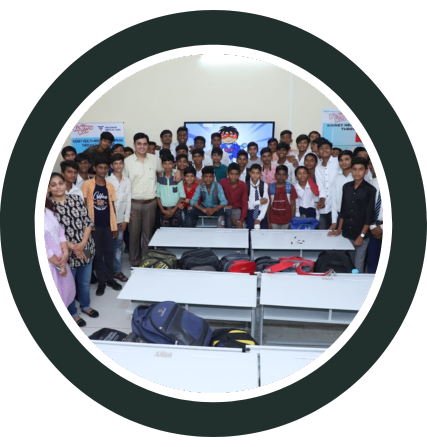
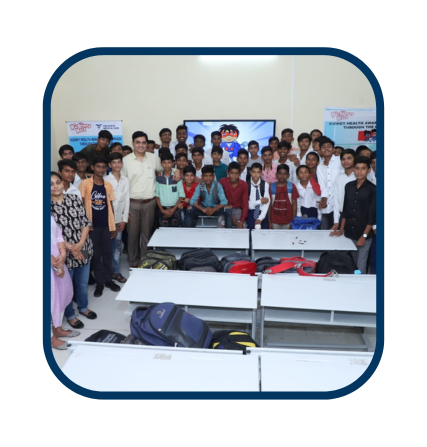
focus areas styling improved and home page section backgrounds set

diff --git a/public/assets/css/oxpins.css b/public/assets/css/oxpins.css
@@ -7240,6 +7240,7 @@ body.locked .page-wrapper {
   display: block;
   min-height: 447px;
   z-index: 2;
+  cursor: pointer;
 }
 
 .feature-three__img {
@@ -7266,6 +7267,7 @@ body.locked .page-wrapper {
   left: 90px;
   transform: rotate(-16deg);
   z-index: 2;
+  
 }
 
 .feature-three__title {

diff --git a/resources/views/demos/index.blade.php b/resources/views/demos/index.blade.php
@@ -49,7 +49,7 @@
                             <div class="col-xl-12">
                                 <div class="main-slider-two__content">
                                     <p class="main-slider-two__sub-title">Helping Today. Helping Tommorow</p>
-                                    <h2 class="main-slider-two__title">Give Child the <br> Gift of Eductions</h2>
+                                    <h2 class="main-slider-two__title">Give Child the <br> Gift of Education</h2>
                                     <div class="main-slider-two__btn-box">
                                         <a href="{{ route('about') }}" class="thm-btn main-slider-two__btn"> Discover more</a>
                                     </div>
@@ -77,7 +77,7 @@
                             <div class="col-xl-12">
                                 <div class="main-slider-two__content">
                                     <p class="main-slider-two__sub-title">Helping Today. Helping Tommorow</p>
-                                    <h2 class="main-slider-two__title">Give Child the <br> Gift of Eductions</h2>
+                                    <h2 class="main-slider-two__title">Give Child the <br> Gift of Education</h2>
                                     <div class="main-slider-two__btn-box">
                                         <a href="{{ route('about') }}" class="thm-btn main-slider-two__btn"> Discover more</a>
                                     </div>
@@ -105,7 +105,7 @@
                             <div class="col-xl-12">
                                 <div class="main-slider-two__content">
                                     <p class="main-slider-two__sub-title">Helping Today. Helping Tommorow</p>
-                                    <h2 class="main-slider-two__title">Give Child the <br> Gift of Eductions</h2>
+                                    <h2 class="main-slider-two__title">Give Child the <br> Gift of Education</h2>
                                     <div class="main-slider-two__btn-box">
                                         <a href="{{ route('about') }}" class="thm-btn main-slider-two__btn"> Discover more</a>
                                     </div>
@@ -206,27 +206,30 @@
 
         <!--Focus Areas Start-->
       <!--Feature Three Start-->
-      <section class="feature-three">
+      <section class="feature-three" style="background-image:url('{{ asset('assets/images/shapes/events-one-shape-1.png') }}')">
             <div class="container">
                 <div class="section-title text-center">
                     <span class="section-title__tagline">What We Do?</span>
                     <h2 class="section-title__title">Our Areas of Impact</h2>
                 </div>
                 <div class="row">
-                    <div class="col-xl-4 col-lg-12">
-                        <div class="feature-three__single">
+                    <div class="col-xl-4 col-lg-12"> 
+                        <a href="{{ route('childRights') }}">
+                        <div class="feature-three__single" >
                             <div class="feature-three__img"
                                 style="background-image:url('{{ asset('assets/images/resources/feature-3-1.png') }}')">
                             </div>
                             <div class="feature-three__title-box">
                                 <h3 class="feature-three__title">Child Rights</h3>
                             </div>
-                            <div class="feature-three__btn">
+                            <!-- <div class="feature-three__btn">
                                 <a href="{{ route('childRights') }}">See more</a>
-                            </div>
+                            </div> -->
                         </div>
+                        </a>
                     </div>
                     <div class="col-xl-4 col-lg-12">
+                        <a href="{{ route('socialDevelopment') }}">
                         <div class="feature-three__single">
                             <div class="feature-three__img"
                                 style="background-image:url('{{ asset('assets/images/resources/feature-3-2.png') }}')">
@@ -234,12 +237,14 @@
                             <div class="feature-three__title-box">
                                 <h3 class="feature-three__title">Skill Development</h3>
                             </div>
-                            <div class="feature-three__btn feature-three__btn-two">
+                            <!-- <div class="feature-three__btn feature-three__btn-two">
                                 <a href="{{ route('socialDevelopment') }}">See more</a>
-                            </div>
+                            </div> -->
                         </div>
+                        </a>
                     </div>
                     <div class="col-xl-4 col-lg-12">
+                        <a href="{{ route('publicHealth') }}">
                         <div class="feature-three__single">
                             <div class="feature-three__img"
                                 style="background-image:url('{{ asset('assets/images/resources/feature-3-3.png') }}')">
@@ -247,14 +252,16 @@
                             <div class="feature-three__title-box">
                                 <h3 class="feature-three__title">Public Health</h3>
                             </div>
-                            <div class="feature-three__btn feature-three__btn-two">
+                            <!-- <div class="feature-three__btn feature-three__btn-two">
                                 <a href="{{ route('publicHealth') }}">See more</a>
-                            </div>
+                            </div> -->
                         </div>
+                        </a>
                     </div>
                 </div>
-                <div class="row">
+                <div class="row" style="display: flex; justify-content: center;">
                     <div class="col-xl-4 col-lg-12">
+                        <a href="{{ route('environment') }}">
                         <div class="feature-three__single">
                             <div class="feature-three__img"
                                 style="background-image:url('{{ asset('assets/images/resources/feature-3-4.png') }}')">
@@ -262,12 +269,14 @@
                             <div class="feature-three__title-box">
                                 <h3 class="feature-three__title">Environment</h3>
                             </div>
-                            <div class="feature-three__btn">
+                            <!-- <div class="feature-three__btn">
                                 <a href="{{ route('environment') }}">See more</a>
-                            </div>
+                            </div> -->
                         </div>
+                        </a>
                     </div>
                     <div class="col-xl-4 col-lg-12">
+                        <a href="{{ route('monitoring') }}">
                         <div class="feature-three__single">
                             <div class="feature-three__img"
                                 style="background-image:url('{{ asset('assets/images/resources/feature-3-5.png') }}')">
@@ -276,10 +285,11 @@
                                 <h3 class="feature-three__title">
                                 Monitoring</h3>
                             </div>
-                            <div class="feature-three__btn feature-three__btn-two">
+                            <!-- <div class="feature-three__btn feature-three__btn-two">
                                 <a href="{{ route('monitoring') }}">See more</a>
-                            </div>
+                            </div> -->
                         </div>
+                        </a>
                     </div>
                     
                 </div>
@@ -654,7 +664,7 @@
         <!--Events One End-->
 
         <!--Feature One Start-->
-        <section class="feature-one">
+        <section class="feature-one" style="background-image:url('{{ asset('assets/images/shapes/events-one-shape-1.png') }}')">
             <div class="container">
                 <div class="row">
                     <div class="col-xl-6 col-lg-6  wow slideInLeft" data-wow-delay="100ms" data-wow-duration="2500ms">
@@ -1096,7 +1106,7 @@
             <div class="gallery-one__top">
                 <h3 class="gallery-one__top-title">Our photo gallery</h3>
             </div>
-            <div class="gallery-one__bottom">
+            <div class="gallery-one__bottom" style="background-image:url('{{ asset('assets/images/shapes/events-one-shape-1.png') }}')">
                 <div class="gallery-one__container">
                     <ul class="list-unstyled gallery-one__list">
                         <li class="gallery-one__single wow fadeInUp" data-wow-delay="100ms">

diff --git a/resources/views/components/head.blade.php b/resources/views/components/head.blade.php
@@ -7,7 +7,7 @@
     <link rel="icon" type="image/png" sizes="32x32" href="{{ asset('assets/images/favicons/favicon-32x32.png') }}">
     <link rel="icon" type="image/png" sizes="16x16" href="{{ asset('assets/images/favicons/favicon-16x16.png') }}">
     <link rel="manifest" href="{{ asset('assets/images/favicons/site.webmanifest') }}">
-    <meta name="description" content="Oxpins HTML 5 Template " />
+    <meta name="description" content="globalpathfields" />
 
     <!-- fonts -->
     <link rel="preconnect" href="https://fonts.googleapis.com">
